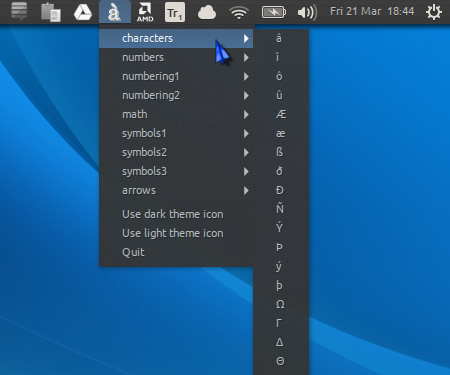
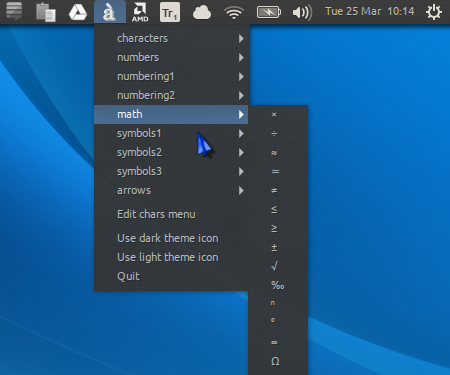
Added new menu item to edit user config file

diff --git a/indicator-chars.py b/indicator-chars.py
@@ -105,6 +105,10 @@ class IndicatorChars:
             menu.append(parentItem)
 
         menu.append(gtk.SeparatorMenuItem())
+        EditConfig_item = self.create_menu_item('Edit chars menu')
+        EditConfig_item.connect("activate", self.EditConfig)
+        menu.append(EditConfig_item)
+        menu.append(gtk.SeparatorMenuItem())
         DarkTheme_item = self.create_menu_item('Use dark theme icon')
         DarkTheme_item.connect("activate", self.DarkTheme)
         menu.append(DarkTheme_item)
@@ -122,6 +126,9 @@ class IndicatorChars:
     def on_char_click(self, widget, char):
         cb = gtk.Clipboard(selection="PRIMARY")
         cb.set_text(char)
+
+    def EditConfig(self, dude):
+	os.system("/usr/local/indicator-chars/edit-user-config")
 
     def DarkTheme(self, dude):
 	os.system("sudo /usr/local/indicator-chars/dark-theme-icon && /usr/local/indicator-chars/restart")

diff --git a/README.rst b/README.rst
@@ -2,21 +2,20 @@
 indicator-chars
 ===============
 
-:Author: Tobias Schlitt <toby@php.net>
+Forked from: https://github.com/tobyS/indicator-chars
 
-App indicator to provide a menu with (potentially funny UTF-8) characters for
+: Original Author: Tobias Schlitt <toby@php.net>
+
+App indicator to provide a menu with special characters for
 simple copying them to clipboard (similar to original characters applet).
-
-Create a file .indicator-chars in your home directory with lines of
-characters to be selectable.
 
 -------
 Install
 -------
 
-- Checkout source code
+- Checkout source files ( especially the DEB package ;-)
 
-- Create ~/.indicator-chars
+- Create/Edit ~/.indicator-chars
 
   - Each row corresponds to a set of chars
 
@@ -29,12 +28,22 @@ Install
 
   - Make sure to use UTF-8 encoding
 
-- Put indicator-chars.py into auto start
-
 -----------
 Open issues
 -----------
 
+- Clicking an item copies it to clipboard?
+
 - Maybe there is a way to use multiple click buttons in menu items?
 
 - No standard Gtk way does not work.
+
+-----------
+Changelog
+-----------
+
+1.2 Another menu item added to edit user config file with zenity, etc.
+
+1.1 Issue of root password requirement to change icon resolved, etc.
+
+1.0 Original code forked: sample user config file added, icon made available also for dark themes, menu item added to change icon, DEB file added, etc.
